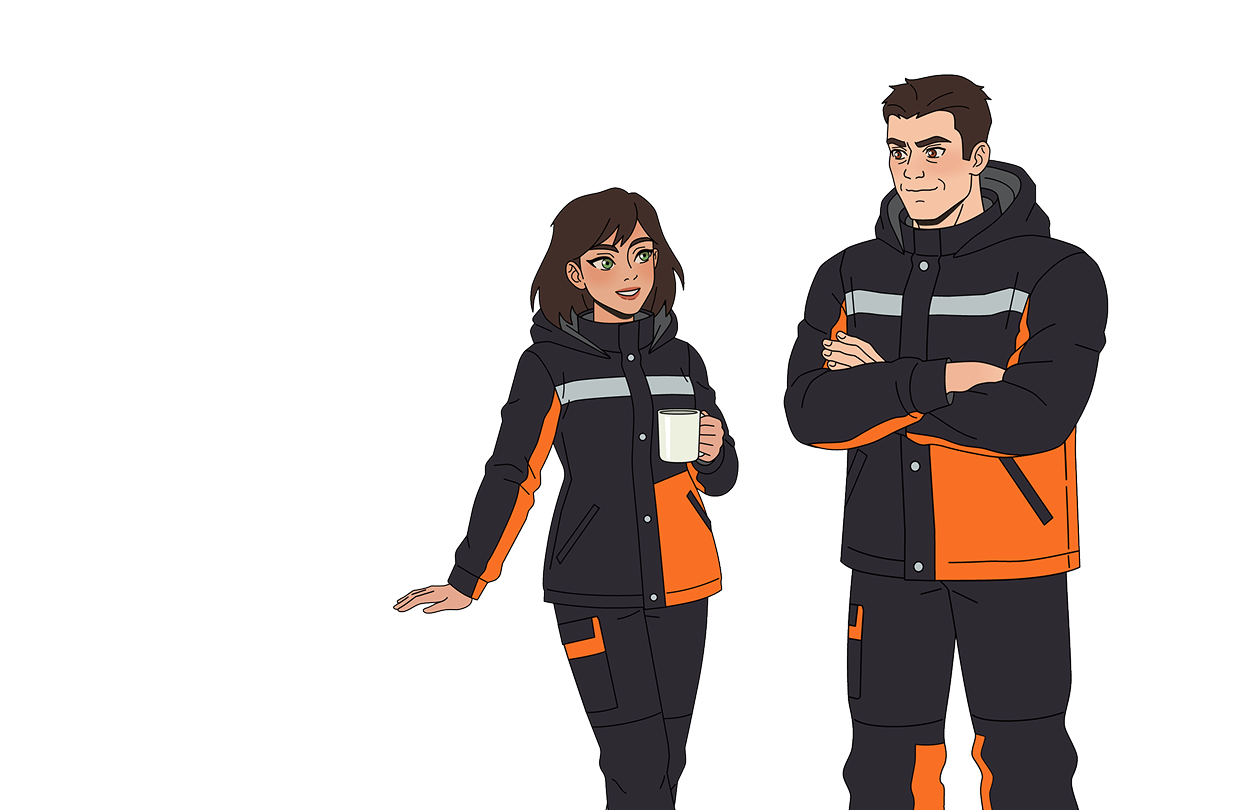
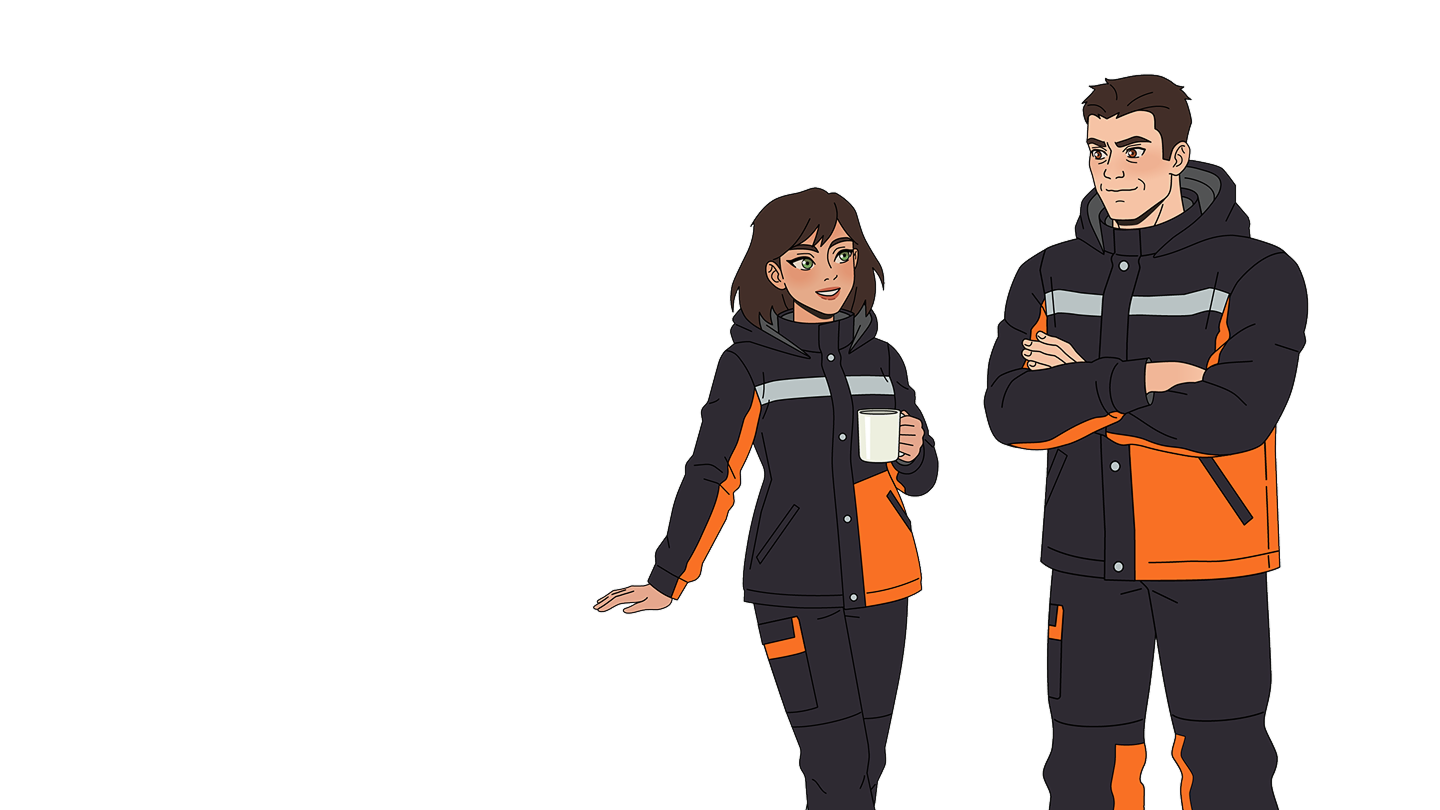
quiz styles

Changed region(s): [[0.3065, 0.0926, 0.9194, 1.0]]

diff --git a/src/styles/body.css b/src/styles/body.css
@@ -377,6 +377,19 @@ body {
   mix-blend-mode: normal;
 }
 
+@media (max-width: 959px) {
+  ::view-transition-old(root),
+  ::view-transition-new(root),
+  ::view-transition-old(chars),
+  ::view-transition-new(chars),
+  ::view-transition-old(question-background),
+  ::view-transition-new(question-background),
+  ::view-transition-old(quiz-panel),
+  ::view-transition-new(quiz-panel) {
+    animation-duration: 2s;
+  }
+}
+
 a {
   text-decoration: none;
 }
